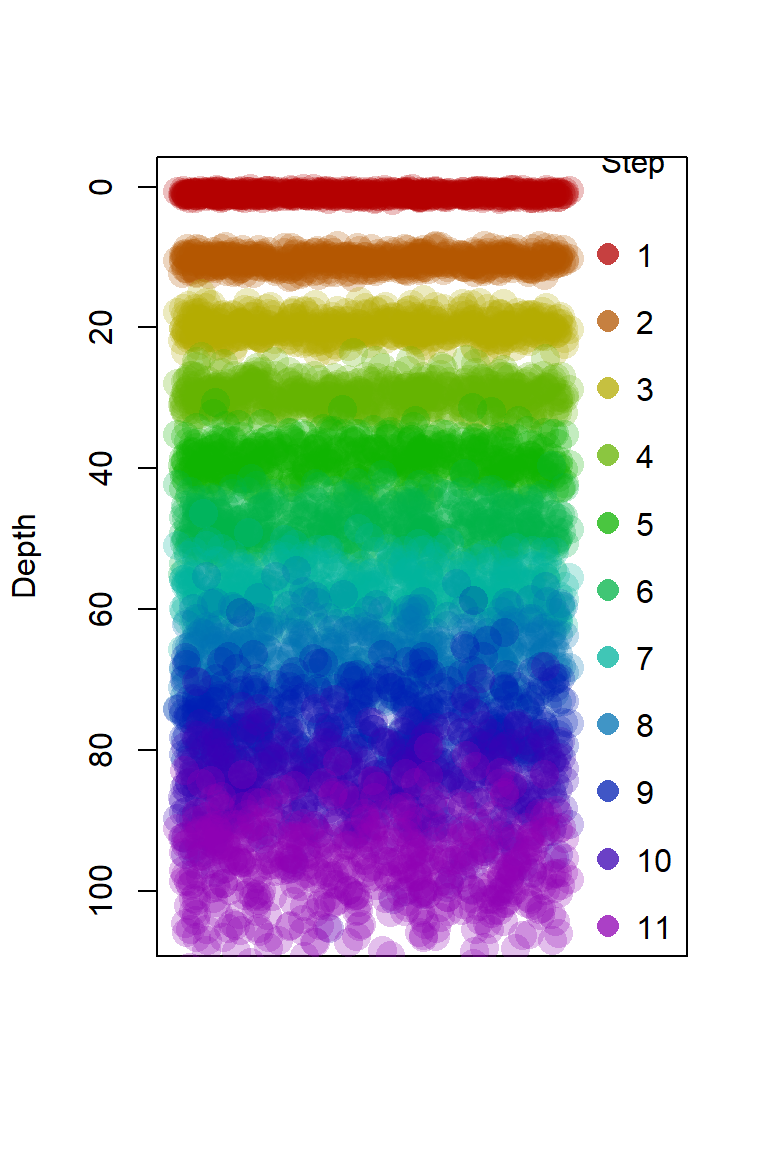
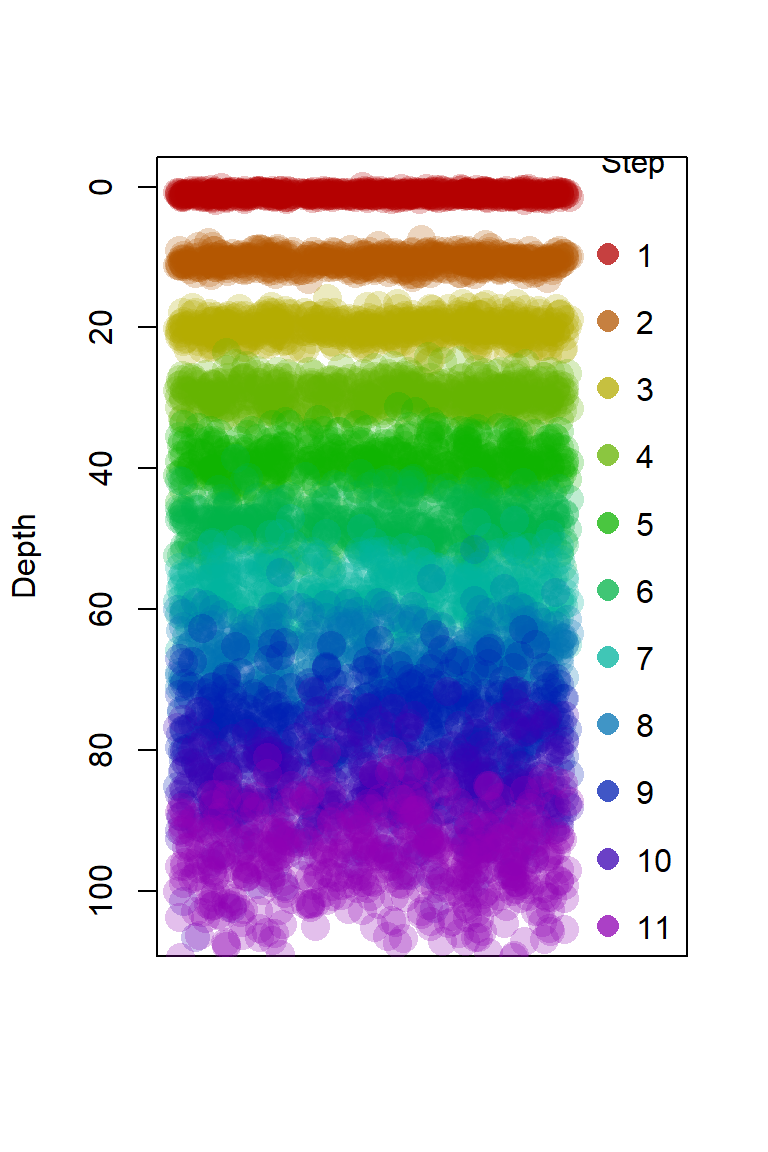
fix typo in pulse.html, fix link in code.html, re-render

diff --git a/pulse.html b/pulse.html
@@ -450,18 +450,18 @@ Figure 1. Plot to show our simulated dataset.
 <span id="cb3-4"><a href="#cb3-4" aria-hidden="true" tabindex="-1"></a>}</span>
 <span id="cb3-5"><a href="#cb3-5" aria-hidden="true" tabindex="-1"></a><span class="fu">str</span>(pulse)</span></code></pre></div>
 <pre><code>## &#39;data.frame&#39;:    500 obs. of  12 variables:
-##  $ x0     : num  0.314 0.56 0.293 0.184 0.921 ...
-##  $ time_0 : num  0.646 0.68 0.786 0.791 1.383 ...
-##  $ time_1 : num  12.4 10.2 12 10.9 11.2 ...
-##  $ time_2 : num  21.2 20.2 22.6 19.4 19.3 ...
-##  $ time_3 : num  28 31.3 29 26.8 27.9 ...
-##  $ time_4 : num  39.5 38.1 41.9 38 44.5 ...
-##  $ time_5 : num  48.4 49.9 50.6 49.9 48.9 ...
-##  $ time_6 : num  54.7 62.7 62.9 58.3 58.8 ...
-##  $ time_7 : num  67.6 59.2 69.4 57.5 70.8 ...
-##  $ time_8 : num  76.8 78.4 72.4 79.3 78.2 ...
-##  $ time_9 : num  81.9 87.7 87.5 81.9 81.3 ...
-##  $ time_10: num  91.2 96.3 86.7 88.7 100.5 ...</code></pre>
+##  $ x0     : num  0.67163 0.00284 0.77788 0.03766 0.56799 ...
+##  $ time_0 : num  1.112 1.043 0.593 0.705 0.909 ...
+##  $ time_1 : num  10.61 10.01 8.57 11.88 8.85 ...
+##  $ time_2 : num  20.3 18.9 18.2 20.1 20.5 ...
+##  $ time_3 : num  30.8 31.5 28.6 29.8 26.6 ...
+##  $ time_4 : num  37.2 39.5 37.9 39.8 38 ...
+##  $ time_5 : num  46 44.6 44.9 47.5 48.5 ...
+##  $ time_6 : num  56.4 63.7 59.5 61.7 63.2 ...
+##  $ time_7 : num  70.9 67.9 69.3 68.4 68.9 ...
+##  $ time_8 : num  78.8 75.6 73.8 69.1 74.5 ...
+##  $ time_9 : num  84.3 95 86.6 87.6 87.8 ...
+##  $ time_10: num  87.4 97 85.1 99.6 80.2 ...</code></pre>
 <p>The data we have created has time steps as separate columns. We
 actually want a single column factor column with the time steps as
 levels. For this we use the <span
@@ -473,9 +473,9 @@ package, which does this seamlessly if we get the options correct:</p>
 <span id="cb5-2"><a href="#cb5-2" aria-hidden="true" tabindex="-1"></a>                     <span class="at">variable.name =</span> <span class="st">&quot;Timestep&quot;</span>, <span class="at">value.name =</span> <span class="st">&quot;Particles&quot;</span>)</span>
 <span id="cb5-3"><a href="#cb5-3" aria-hidden="true" tabindex="-1"></a><span class="fu">str</span>(pulseFact)</span></code></pre></div>
 <pre><code>## &#39;data.frame&#39;:    5500 obs. of  3 variables:
-##  $ x0       : num  0.314 0.56 0.293 0.184 0.921 ...
+##  $ x0       : num  0.67163 0.00284 0.77788 0.03766 0.56799 ...
 ##  $ Timestep : Factor w/ 11 levels &quot;time_0&quot;,&quot;time_1&quot;,..: 1 1 1 1 1 1 1 1 1 1 ...
-##  $ Particles: num  0.646 0.68 0.786 0.791 1.383 ...</code></pre>
+##  $ Particles: num  1.112 1.043 0.593 0.705 0.909 ...</code></pre>
 <div id="make-the-animation" class="section level1">
 <h1>Make the animation</h1>
 <p>The animation is based on a standard ggplot:</p>
@@ -532,7 +532,7 @@ function from the <span
 style="font-family: monospace;  background-color: #e8e8e8;">gifski</span>
 package:</p>
 <div class="sourceCode" id="cb9"><pre class="sourceCode r"><code class="sourceCode r"><span id="cb9-1"><a href="#cb9-1" aria-hidden="true" tabindex="-1"></a><span class="fu">require</span>(gifski)</span>
-<span id="cb9-2"><a href="#cb9-2" aria-hidden="true" tabindex="-1"></a><span class="fu">options</span>(<span class="at">gganimate.dev_args =</span> <span class="fu">list</span>(<span class="at">width =</span> <span class="dv">600</span>, <span class="at">height =</span> <span class="dv">800</span>))</span>
+<span id="cb9-2"><a href="#cb9-2" aria-hidden="true" tabindex="-1"></a><span class="fu">options</span>(<span class="at">gganimate.dev_args =</span> <span class="fu">list</span>(<span class="at">width =</span> <span class="dv">400</span>, <span class="at">height =</span> <span class="dv">600</span>))</span>
 <span id="cb9-3"><a href="#cb9-3" aria-hidden="true" tabindex="-1"></a><span class="fu">anim_save</span>(<span class="st">&quot;pulseAnim.gif&quot;</span>, <span class="fu">animate</span>(pulseAnim, <span class="at">renderer =</span> <span class="fu">gifski_renderer</span>(), </span>
 <span id="cb9-4"><a href="#cb9-4" aria-hidden="true" tabindex="-1"></a>                                  <span class="at">duration =</span> <span class="dv">12</span>))</span></code></pre></div>
 <div class="figure">

diff --git a/code.html b/code.html
@@ -297,15 +297,17 @@ $(document).ready(function () {
 </div>
 
 
-<div id="a-growing-list-of-raw-r-code-files-for-various-tasks"
+<div id="a-growing-list-of-r-code-files-for-various-tasks"
 class="section level3">
-<h3>A growing list of raw <strong>R</strong> code files for various
+<h3>A growing list of <strong>R</strong> code files for various
 tasks</h3>
 <p>Code only makes it to this list if it’s well-formed enough to be
-worth sharing, and if the author decides it can go here.</p>
+worth sharing, and if the author decides it can go here. Some of the
+code is R source, some is unrendered R markdown, and some is as nice
+html with code chunks.</p>
 <ul>
-<li><a href="pulse.html" target="_blank">solute transport animation
-using gganimate</a></li>
+<li><a href="pulse.html">solute transport animation using
+gganimate</a></li>
 <li><a
 href="https://github.com/Ratey-AtUWA/eDNA/raw/master/playing%20with%20vegan.Rmd"
 target="_blank">using vegan for environmental DNA data analysis (R
